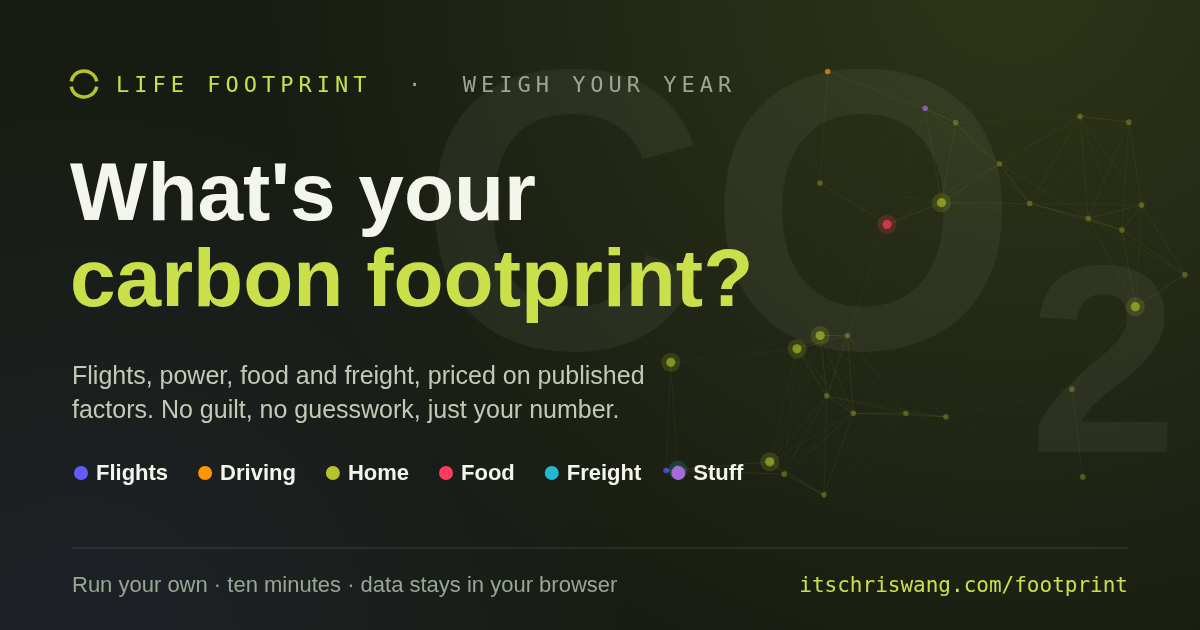
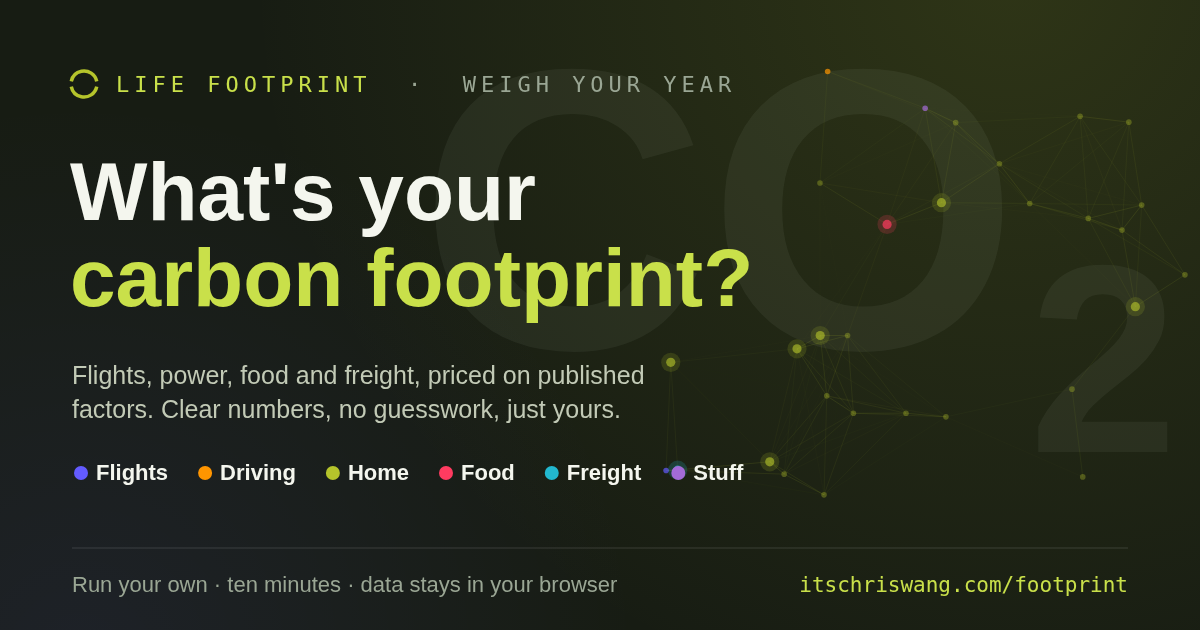
Reword footprint thumbnail to open on a positive
"No guilt" planted a negative concept before reassuring. Lead the
supporting line with "Clear numbers, no guesswork, just yours" instead,
and update og:image:alt to match.

Changed region(s): [[0.1233, 0.6333, 0.5242, 0.6635]]

diff --git a/footprint/index.html b/footprint/index.html
@@ -18,7 +18,7 @@
   <meta property="og:image" content="https://itschriswang.com/og-footprint.png">
   <meta property="og:image:width" content="1200">
   <meta property="og:image:height" content="630">
-  <meta property="og:image:alt" content="What's your carbon footprint? A ten-minute personal carbon audit that weighs flights, driving, home, food, freight and stuff on published factors, no guilt and no guesswork. Data stays in your browser.">
+  <meta property="og:image:alt" content="What's your carbon footprint? A ten-minute personal carbon audit that weighs flights, driving, home, food, freight and stuff on published factors, in clear numbers with no guesswork. Data stays in your browser.">
   <meta property="og:locale" content="en_AU">
   <meta name="twitter:card" content="summary_large_image">
   <meta name="twitter:title" content="Your Carbon Footprint | Chris Wang">
